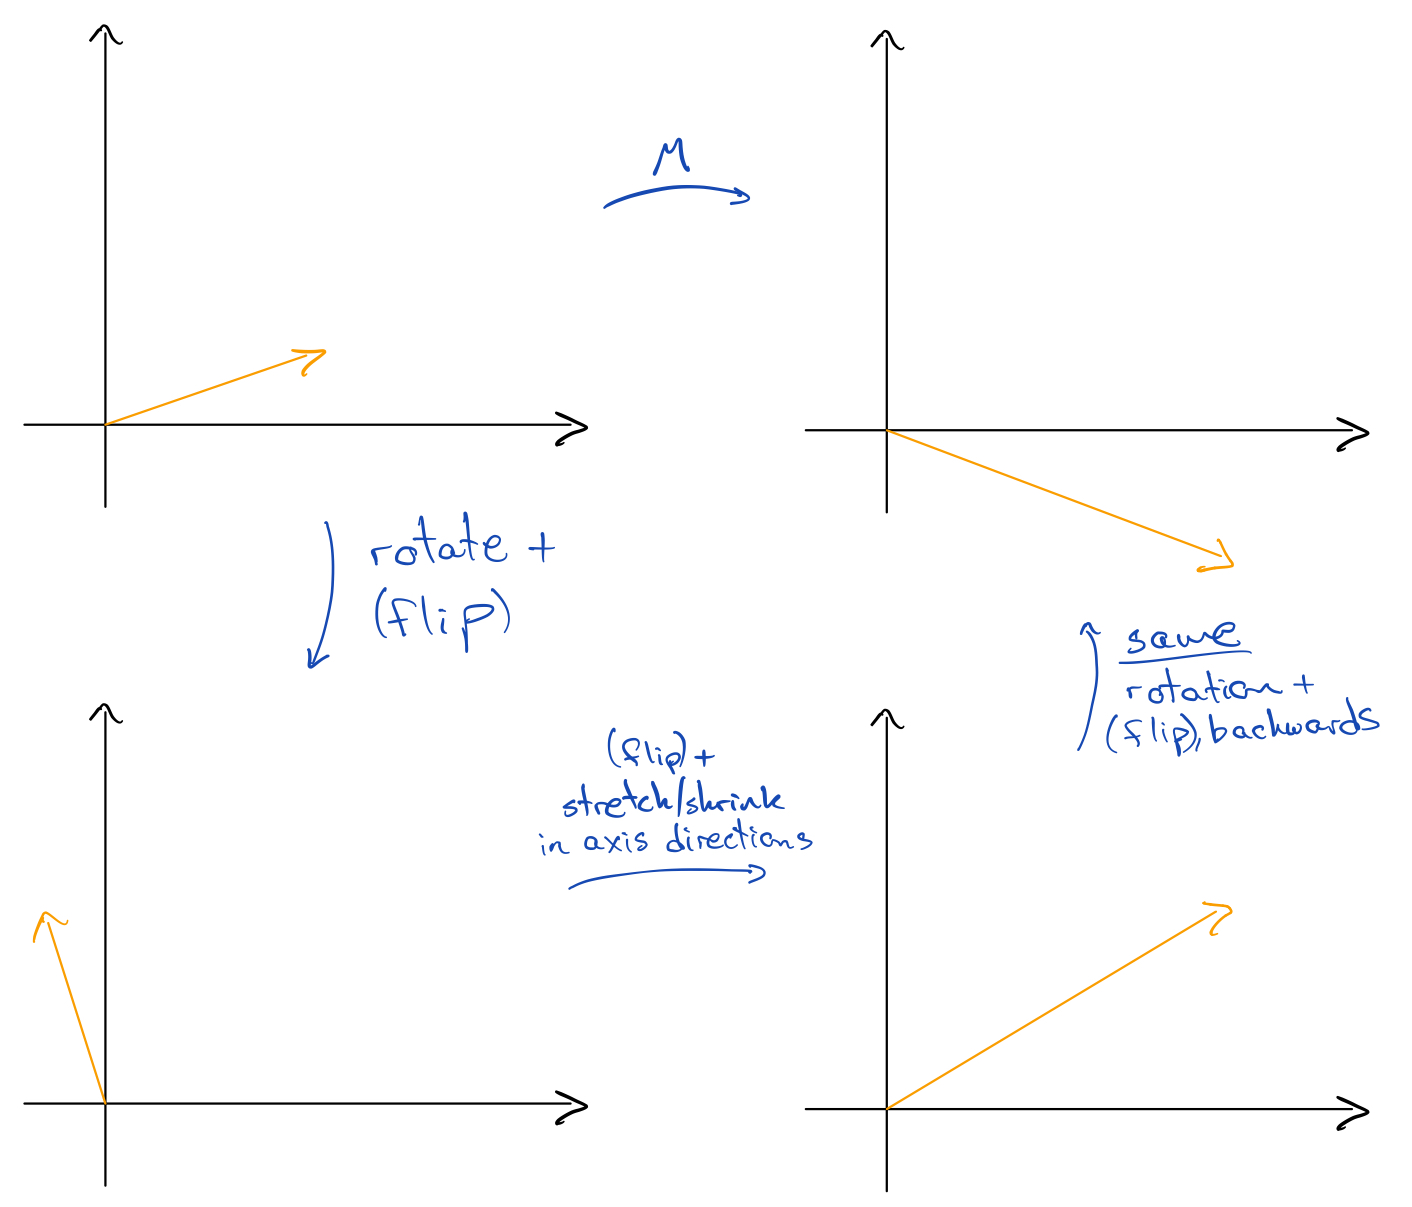
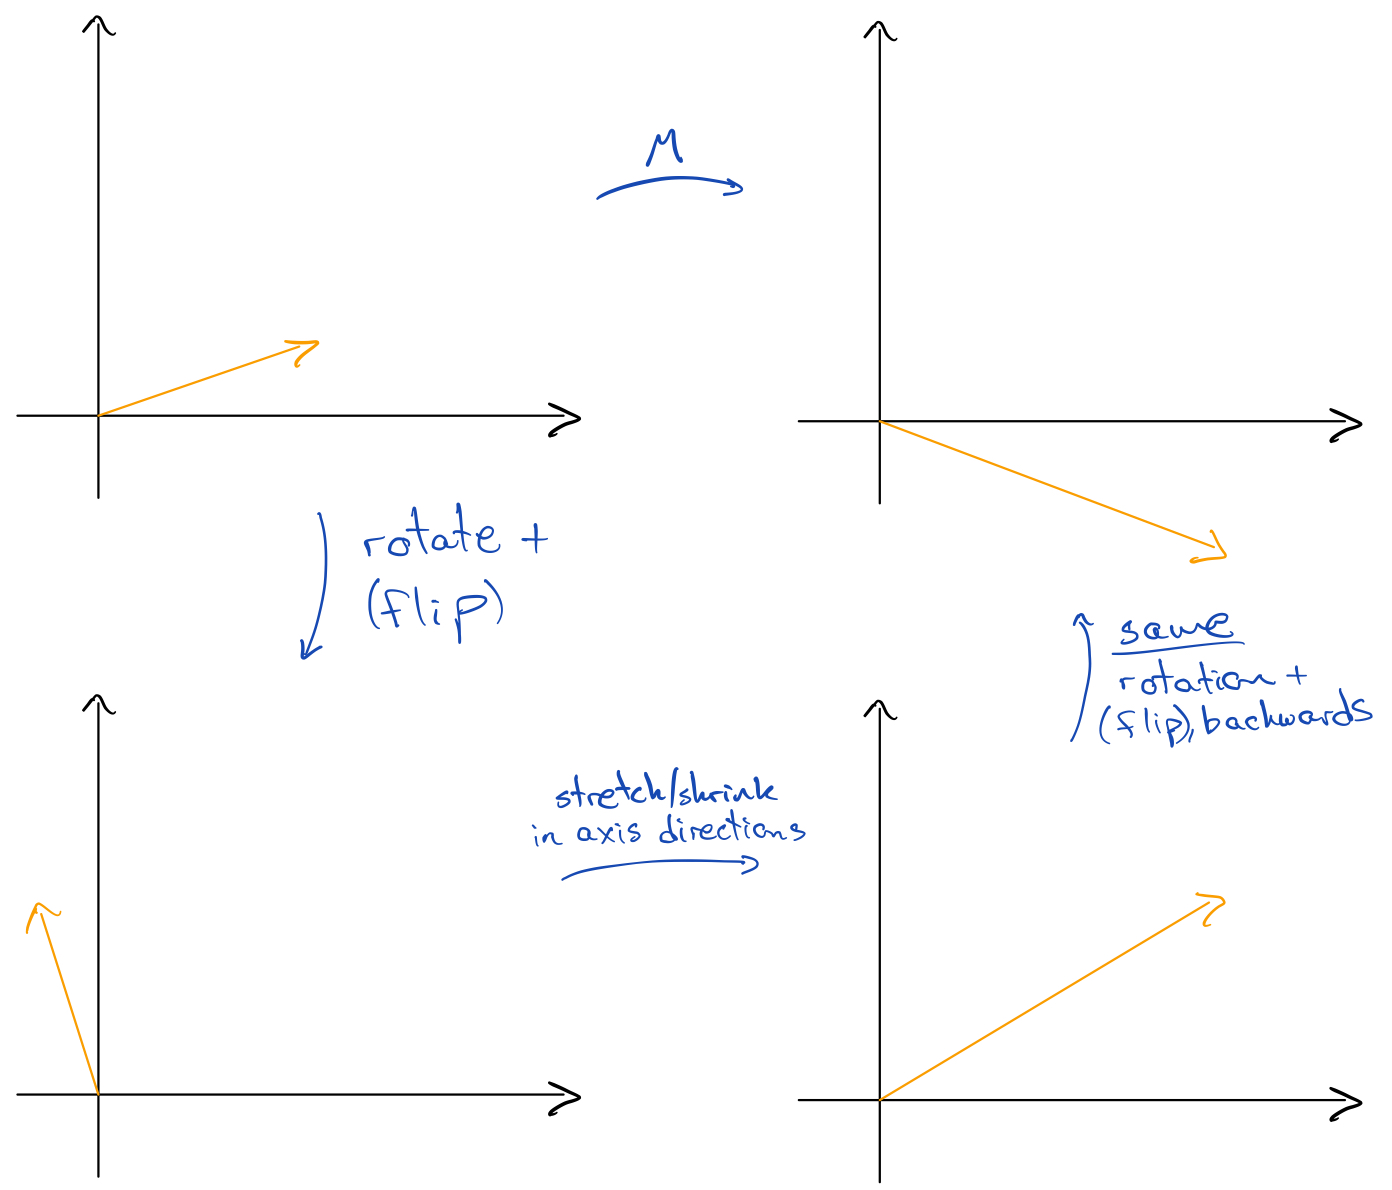
removed flip from eigendecomp, as we are assuming symmetry

diff --git a/_posts/2019-06-12-singular-value-decomposition-in-pictures.md b/_posts/2019-06-12-singular-value-decomposition-in-pictures.md
@@ -27,14 +27,14 @@ To apply the aforementioned idea of breaking into smaller pieces, a way of simpl
 
 The first decomposition that we'll look at, the **eigendecomposition**, does this by isolating a collection of special vectors which are *not rotated* and *stretched/shrunk the same amount in all directions*: our transformation only potentially flips and "uniformly" stretches/shrinks these special ones. Of course this comes with its own cryptic terminology: these special vectors are called **eigenvectors**, and the amount that they are uniformly stretched/shrunk are the **eigenvalues**.
 
-The decomposition then first rotates and potentially flips a given vector, then stretches/shrinks it in the axis directions and potentially flips it, and rotates and potentially flips it back again:
+The decomposition then first rotates and potentially flips a given vector, then stretches/shrinks it in the axis directions, and rotates and potentially flips it back again:
 
 {: style="text-align:center"}
 ![eigendecomposition](../img/eigendecomposition.jpg)
 
 There is a problem, however: it doesn't always work. We firstly have to assume that $M$ is a **square matrix**, meaning that $m=n$, because we're doing the same rotation (in reverse) after we stretch/shrink and so we have to stay in the same space.
 
-Being a square matrix is not even enough, as we also require that $M$ is *symmetric* and *positive semi-definite*. More jargon! Let's look at those one at a time.
+Being a square matrix is not even enough, as we also require that $M$ is *symmetric* and *positive semi-definite* (technically, a [weaker condition suffices](https://en.wikipedia.org/wiki/Diagonalizable_matrix), but we'll ignore this here, as SVD will take care of this as well). More jargon! Let's look at those one at a time.
 
 A transformation is **symmetric** if applying it twice cancels out all rotations and flips; i.e. only stretching/shrinking stays after the second transformation:
 
@@ -56,7 +56,7 @@ The generalisation of the eigendecomposition to *all* matrices is then the **sin
 
 We therefore isolate some *special vectors* again, where in this case "special" only means that they are "uniformly" stretched/shrunk, i.e. that the stretching/shrinking are equal in all directions. This is *almost* the same thing as the eigenvectors, except that we allow them to be rotated. We call these special vectors **singular vectors**, and the amount that they're stretched/shrunk are the **singular values**.
 
-The decomposition is then saying that any transformation can be split up into a (1) rotation + potential flip, (2) stretching/shrinking in the axis directions and (3) another (potentially different) rotation + potential flip. Note that (2) doesn't include flips, in contrast to the eigendecomposition.
+The decomposition is then saying that any transformation can be split up into a (1) rotation + potential flip, (2) stretching/shrinking in the axis directions and (3) another (potentially different) rotation + potential flip.
 
 {: style="text-align:center"}
 ![singular value decomposition](../img/svd.jpg)
@@ -69,6 +69,6 @@ You can find a cool interactive animation of the decomposition [here](https://ww
 > 
 > where $p:=\min(m,n)$ and $\sigma_i=0$ for all $i>p$.
 
-That's it! You can check out the proof of this theorem [here](http://www.ee.cuhk.edu.hk/~wkma/engg5781/new_notes/lecture%205-%20SVD-%20note.pdf).
+That's it! You can check out the proof of this theorem [here](http://www.ee.cuhk.edu.hk/~wkma/engg5781/new_notes/lecture%205-%20SVD-%20note.pdf). One neat thing to note is when our transformation is both symmetric and semi-positive definite, then the SVD and eigendecomposition are equivalent!
 
-Tune in next week for some data science applications of this decomposition!
+Tune in next week for some data science applications of this decomposition.
